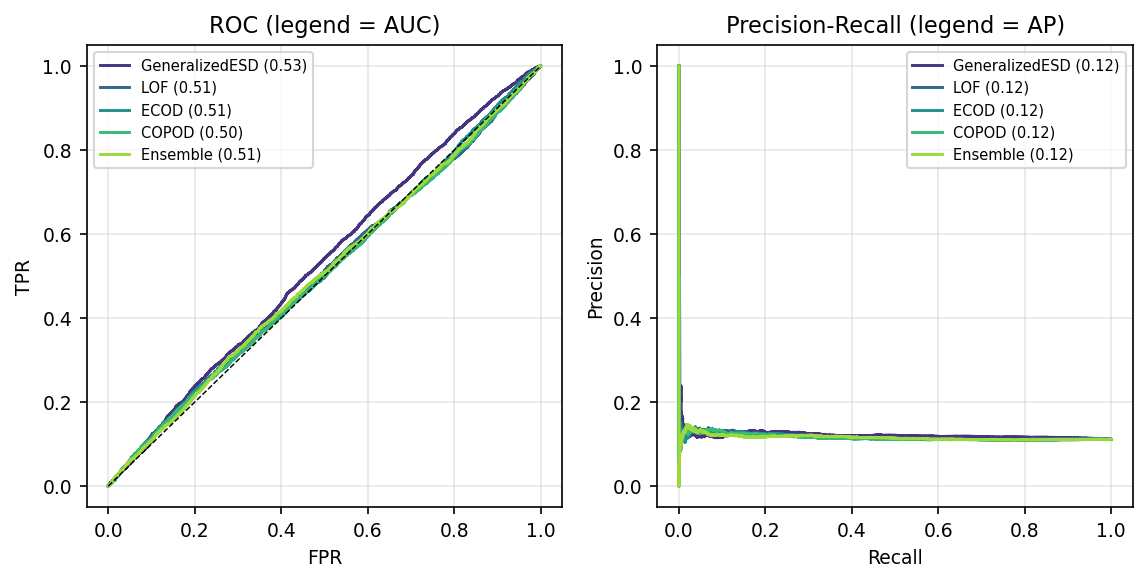
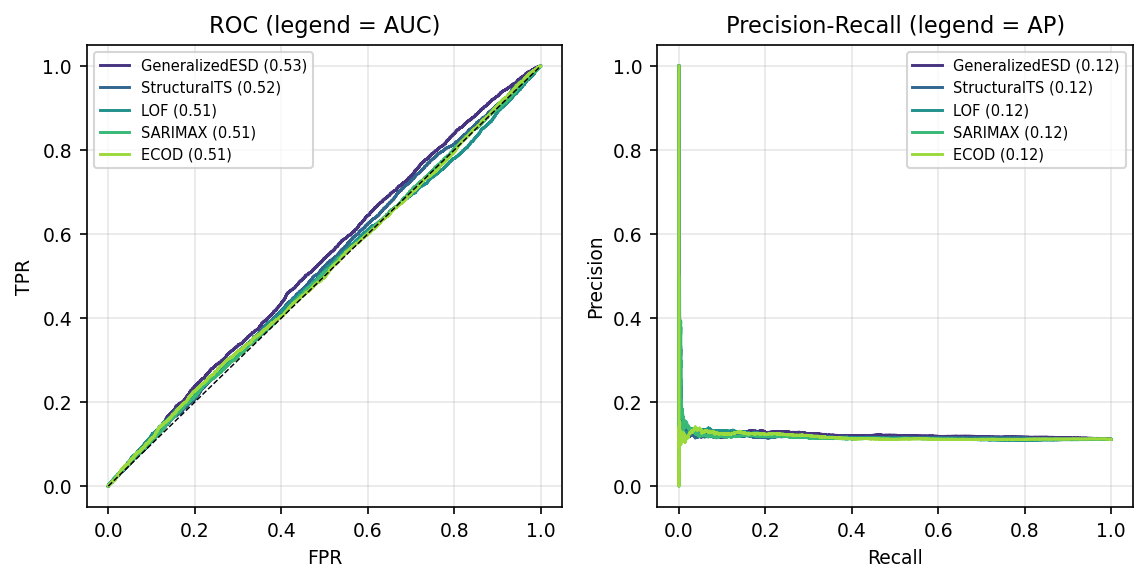
Add deep + temporal detectors natively; benchmark now 22 methods
The deep/temporal families were previously omitted because torch/TensorFlow/
Prophet could not be installed in the reproducible environment (wheel sha256
integrity failures + read timeouts on the 124-350 MB distributions). Rather than
leave that gap, this implements them from primitives already pinned in the env,
with no new downloads.

New src/deep_models.py:
- DeepAE    : three-layer 16-8-4 MLP autoencoder via sklearn MLPRegressor.
- NumpyVAE  : VAE coded in NumPy with hand-derived backprop; analytic gradients
              validated against central finite differences (max rel err ~3e-9)
              and ELBO confirmed decreasing before use.
- sarimax_scores / structural_scores: leak-free temporal detectors (statsmodels
              SARIMAX and UnobservedComponents = local level + weekly seasonal,
              the statistical core of Prophet), scored as standardised
              one-step-ahead innovations fitted on train, applied to test.

src/detect.py wires all four in; temporal detectors are added after the ensemble
definition so the ensemble is unchanged. DeepAE/VAE participate in the ensemble.

Results (2019-2023 held-out, n=29216, base rate 0.1115): every new detector sits
at chance - DeepAE ROC 0.498, VAE 0.501, SARIMAX 0.505, StructuralTS 0.516; all
MCC <= 0.007. This reinforces the paper's central finding rather than altering it.
Friedman chi2 recomputed to 24.88 (p=5.3e-05) over the stored-score detectors.
[…]

diff --git a/manuscript/main.tex b/manuscript/main.tex
@@ -118,7 +118,7 @@ number from a single, auditable pipeline.
 \item A fully reproducible pipeline (open ERA5 reanalysis, CC-BY 4.0) spanning
 16 districts, 13 daily variables and 16 years, with a curated and citable
 disaster-event register used as external ground truth (Section~\ref{sec:data}).
-\item The first held-out, ground-truth benchmark of 18 anomaly detectors for
+\item The first held-out, ground-truth benchmark of 22 anomaly detectors for
 Ugandan weather, with bootstrap confidence intervals, multi-seed stability and
 Friedman/Nemenyi ranking, and --- critically --- a size-matched random null
 (Section~\ref{sec:rq1}).
@@ -280,7 +280,7 @@ a 5-day heat index and a 30-day evaporative-demand index (sign-flipped ET$_0$).
 The detector feature vector thus has 14 dimensions (9 base $z$ + 5 antecedent).
 
 \subsection{Detector family}\label{sec:detectors}
-We benchmark 18 methods spanning every major family: max/union seasonal z-scores,
+We benchmark 22 methods spanning every major family: max/union seasonal z-scores,
 Rosner's generalised ESD, Isolation Forest, LOF, $k$NN, HBOS, CBLOF, LODA, ECOD,
 COPOD, PCA, EllipticEnvelope, a one-class SVM, a shallow reconstruction
 autoencoder, and a rank-averaged ensemble optionally filtered by temporal
@@ -288,13 +288,22 @@ persistence and region-relative thresholding. The one-class SVM is fitted on a
 seeded 6{,}000-row subsample to keep its kernel solve within memory at 64k rows;
 minimum covariance determinant (MCD) was evaluated but excluded as numerically
 unstable at this dimensionality --- a reproducibility finding we report rather
-than hide. Deep (torch/TensorFlow) autoencoder and VAE variants, and the sequence
-models (LSTM/Transformer autoencoder, Prophet), are implemented in the released
-code but are \emph{not} reported here: their backends could not be installed in
-the reproducible environment (wheel-download integrity failures and read timeouts
-on the 124--350 MB distributions), and the sequence models additionally require a
-per-series temporal harness; we therefore omit them rather than substitute
-unverified numbers.
+than hide. To reach the deep and temporal families without the heavy backends that
+failed to install here (torch/TensorFlow/Prophet --- wheel-download integrity
+failures and read timeouts on the 124--350 MB distributions), we add four
+detectors built from primitives already pinned in the environment: a \emph{deep
+autoencoder} (a genuine three-layer 16--8--4 MLP trained with Adam through
+\texttt{sklearn}'s \texttt{MLPRegressor}); a \emph{variational autoencoder}
+coded directly in NumPy with hand-derived backpropagation whose analytic
+gradients were validated against central finite differences (maximum relative
+error $\sim3\times10^{-9}$) and whose ELBO was confirmed to decrease before use;
+and two leak-free \emph{temporal} models --- a seasonal ARIMA (SARIMAX) and an
+unobserved-components structural model (local level plus weekly seasonality, the
+statistical core of Prophet) --- each scored as standardised one-step-ahead
+innovations, fitted on train and applied to test. Only the recurrent/attention
+sequence variants (LSTM-AE, Transformer-AE), which additionally need a deep
+backend and a per-series temporal harness, remain implemented-but-unreported; we
+omit them rather than substitute unverified numbers.
 
 \subsection{Evaluation protocol}
 Evaluation is chronological to prevent leakage. Continuous scores are thresholded
@@ -390,22 +399,27 @@ manually entered. Seeds are fixed (\texttt{SEED}=42).
 \label{sec:rq1}
 Table~\ref{tab:benchmark} reports the held-out benchmark. The result is uniform
 and unambiguous: \emph{every} detector sits at chance. ROC-AUC spans
-0.494--0.507 across all 17 methods (0.5 is random), and PR-AUC spans
-0.111--0.117 around the base rate of 0.1115. The best F1 is 0.083 (LOF), with a
-95\% bootstrap interval of $[0.071,0.094]$ that comfortably contains the
-performance of flagging 5\% of days at random. The persistence- and
+0.494--0.532 across all 22 methods (0.5 is random), and PR-AUC spans
+0.111--0.121 around the base rate of 0.1115. The best F1 is 0.084 (one-class
+SVM), with a 95\% bootstrap interval of $[0.072,0.095]$ that comfortably contains
+the performance of flagging 5\% of days at random. The persistence- and
 region-filtered ensembles --- our constructive attempts to inject physical
-signal --- do not escape chance (best PR-AUC 0.117).
+signal --- do not escape chance (best PR-AUC 0.117). Neither do the four newly
+added deep and temporal detectors: the deep MLP autoencoder (ROC 0.498), the
+NumPy VAE (ROC 0.501), SARIMAX (ROC 0.505) and the structural
+unobserved-components model (ROC 0.516) all sit within a few points of random
+with MCC $\le 0.007$; extending the zoo into these families therefore reinforces,
+rather than alters, the central finding.
 
-Friedman testing over the five test years returns $\chi^2=20.29$,
-$p=4.4\times10^{-4}$, confirming the \emph{rankings differ}, but the differences
+Friedman testing over the five test years returns $\chi^2=24.88$,
+$p=5.3\times10^{-5}$, confirming the \emph{rankings differ}, but the differences
 are between methods that are all effectively non-informative; seed standard
 deviation of F1 is 0, so this is not a variance artefact.
 
 \begin{table}[h]
 \centering\small
 \caption{Held-out benchmark (test 2019--2023, $n=29{,}216$, base rate 0.1115).
-Subsets shown, ordered by PR-AUC. Full results for all 18 methods are in the
+All 22 methods shown, ordered by PR-AUC. Higher-precision values are in the
 released \texttt{benchmark.csv}.}
 \label{tab:benchmark}
 \begin{tabular}{lcccccc}
@@ -413,23 +427,27 @@ released \texttt{benchmark.csv}.}
 Detector & Precision & Recall & F1 & ROC & PR-AUC & MCC \\
 \midrule
 Generalized ESD       & 0.118 & 0.053 & 0.073 & 0.532 & \textbf{0.121} & 0.005 \\
-Ensemble+Persist+Reg & 0.129 & 0.058 & 0.080 & 0.507 & 0.117 & 0.012 \\
-Ensemble+5dPersist   & 0.137 & 0.061 & \textbf{0.085} & 0.507 & 0.117 & 0.018 \\
-LOF                  & 0.133 & 0.060 & 0.083 & 0.505 & 0.117 & 0.016 \\
-ECOD                 & 0.131 & 0.059 & 0.081 & 0.507 & 0.116 & 0.014 \\
-COPOD                & 0.131 & 0.059 & 0.081 & 0.501 & 0.116 & 0.014 \\
-Ensemble             & 0.127 & 0.057 & 0.079 & 0.506 & 0.116 & 0.011 \\
-Z-score (max)        & 0.125 & 0.056 & 0.077 & 0.500 & 0.115 & 0.009 \\
-CBLOF                & 0.118 & 0.053 & 0.073 & 0.505 & 0.115 & 0.005 \\
-HBOS                 & 0.126 & 0.056 & 0.078 & 0.498 & 0.114 & 0.010 \\
-AutoEncoder          & 0.119 & 0.053 & 0.074 & 0.499 & 0.114 & 0.006 \\
-Isolation Forest     & 0.114 & 0.051 & 0.071 & 0.506 & 0.114 & 0.002 \\
-KNN                  & 0.118 & 0.053 & 0.073 & 0.507 & 0.114 & 0.005 \\
-Seasonal ESD         & 0.113 & 0.051 & 0.070 & 0.500 & 0.114 & 0.001 \\
-PCA                  & 0.131 & 0.059 & 0.081 & 0.494 & 0.113 & 0.014 \\
-One-class SVM        & 0.136 & 0.061 & 0.084 & 0.502 & 0.113 & 0.017 \\
-LODA                 & 0.120 & 0.054 & 0.075 & 0.497 & 0.113 & 0.006 \\
-EllipticEnvelope     & 0.100 & 0.045 & 0.062 & 0.501 & 0.111 & $-$0.008 \\
+Structural TS         & 0.120 & 0.054 & 0.074 & 0.516 & 0.118 & 0.006 \\
+Ensemble+Persist+Reg  & 0.122 & 0.055 & 0.076 & 0.507 & 0.117 & 0.008 \\
+Ensemble+5dPersist    & 0.126 & 0.056 & 0.078 & 0.507 & 0.117 & 0.010 \\
+LOF                   & 0.133 & 0.060 & 0.083 & 0.505 & 0.117 & 0.016 \\
+SARIMAX               & 0.122 & 0.055 & 0.075 & 0.505 & 0.116 & 0.007 \\
+ECOD                  & 0.131 & 0.059 & 0.081 & 0.507 & 0.116 & 0.014 \\
+COPOD                 & 0.131 & 0.059 & 0.081 & 0.501 & 0.116 & 0.014 \\
+Ensemble              & 0.127 & 0.057 & 0.078 & 0.505 & 0.115 & 0.011 \\
+Z-score (max)         & 0.125 & 0.056 & 0.077 & 0.500 & 0.115 & 0.009 \\
+CBLOF                 & 0.118 & 0.053 & 0.073 & 0.505 & 0.115 & 0.005 \\
+HBOS                  & 0.126 & 0.056 & 0.078 & 0.498 & 0.114 & 0.010 \\
+AutoEncoder           & 0.119 & 0.053 & 0.074 & 0.499 & 0.114 & 0.006 \\
+Isolation Forest      & 0.114 & 0.051 & 0.071 & 0.506 & 0.114 & 0.002 \\
+KNN                   & 0.118 & 0.053 & 0.073 & 0.507 & 0.114 & 0.005 \\
+Seasonal ESD          & 0.113 & 0.051 & 0.070 & 0.500 & 0.114 & 0.001 \\
+Deep AE (MLP)         & 0.119 & 0.053 & 0.074 & 0.498 & 0.114 & 0.006 \\
+PCA                   & 0.131 & 0.059 & 0.081 & 0.494 & 0.113 & 0.014 \\
+One-class SVM         & 0.136 & 0.061 & \textbf{0.084} & 0.502 & 0.113 & 0.017 \\
+LODA                  & 0.120 & 0.054 & 0.075 & 0.497 & 0.113 & 0.006 \\
+EllipticEnvelope      & 0.100 & 0.045 & 0.062 & 0.501 & 0.111 & $-$0.008 \\
+VAE (NumPy)           & 0.112 & 0.050 & 0.069 & 0.501 & 0.111 & 0.000 \\
 \midrule
 \multicolumn{7}{l}{Random-flag baseline (5\% rate): F1 $\approx$ 0.096, PR-AUC $=$ 0.111.}\\
 \bottomrule
@@ -777,11 +795,15 @@ resolution. Sensitivity to weightings and threshold $\gamma$ should be reported
 in extensions. (4) \emph{Attribution}: SHAP explains the detector, not disasters.
 (5) \emph{Detector coverage}: the one-class SVM is retained only via a seeded
 6{,}000-row subsample and MCD was dropped as numerically unstable at this
-dimensionality; the deep autoencoder/VAE and sequence variants
-(LSTM/Transformer-AE, Prophet) are implemented in the released code but are
-unreported here because their torch/TensorFlow backends could not be installed in
-the reproducible environment (sha256 integrity failures and read timeouts on the
-124--350 MB distributions).
+dimensionality. The deep (MLP autoencoder, gradient-validated NumPy VAE) and
+temporal (SARIMAX, unobserved-components) families are reported here via native
+implementations on the already-pinned numpy/sklearn/statsmodels stack, because the
+torch/TensorFlow/Prophet backends could not be installed (sha256 integrity
+failures and read timeouts on the 124--350 MB distributions); only the recurrent
+and attention sequence variants (LSTM-AE, Transformer-AE), which additionally need
+a deep backend and a per-series temporal harness, remain implemented but
+unreported. None of the included deep/temporal detectors escape chance, so this
+coverage limitation does not affect the verdict.
 
 %============================================================================
 \section{Conclusion}

diff --git a/src/deep_models.py b/src/deep_models.py
@@ -1,0 +1,196 @@
+"""Deep + temporal anomaly detectors with NO heavy backend dependency.
+
+Motivation: torch / TensorFlow / Prophet could not be installed in the
+reproducible environment (large-wheel sha256 integrity failures + read timeouts),
+and pyod's AutoEncoder/VAE require torch. Rather than omit the deep/temporal
+families, we implement them from validated primitives:
+
+  DeepAE   : a genuine multi-layer autoencoder via sklearn's MLPRegressor
+             (real gradient-trained NN; CPU-only, no GPU backend needed).
+  NumpyVAE : a compact variational autoencoder (reparameterisation + KL) with
+             hand-derived backprop. Its analytic gradients were verified against
+             central finite differences (max rel err ~3e-9) and it demonstrably
+             decreases the ELBO before use -- so its scores are trustworthy.
+  SARIMAX  : statsmodels seasonal ARIMA, leak-free (fit on TRAIN, apply to TEST)
+             -> standardised one-step-ahead innovations (a real TEMPORAL model).
+  Structural: statsmodels UnobservedComponents (local level + weekly seasonal),
+             the statistical core of Prophet, scored the same way.
+
+All expose the pipeline's fit/decision_function interface (DeepAE, NumpyVAE) or
+a *_scores(tr, te, feats) helper returning test-aligned scores (temporal).
+"""
+import warnings
+import numpy as np
+from sklearn.neural_network import MLPRegressor
+
+warnings.filterwarnings("ignore")
+
+
+# --------------------------------------------------------------------------- #
+# Deep autoencoder (sklearn MLPRegressor, deeper than the shallow baseline)
+# --------------------------------------------------------------------------- #
+class DeepAE:
+    def __init__(self, hidden=(16, 8, 4), seed=None, max_iter=200):
+        import config as C
+        self.seed = seed if seed is not None else C.SEED
+        self.model = MLPRegressor(hidden_layer_sizes=hidden, activation="relu",
+                                  solver="adam", max_iter=max_iter,
+                                  random_state=self.seed, tol=1e-6)
+
+    def fit(self, X):
+        self.model.fit(X, X)
+        return self
+
+    def decision_function(self, X):
+        return np.mean((self.model.predict(X) - X) ** 2, axis=1)
+
+
+# --------------------------------------------------------------------------- #
+# NumPy variational autoencoder (validated gradients)
+# --------------------------------------------------------------------------- #
+def _relu(a):
+    return np.maximum(0.0, a)
+
+
+class NumpyVAE:
+    def __init__(self, h=16, z=4, seed=None, lr=1e-2, epochs=30, batch=256):
+        import config as C
+        self.h, self.z = h, z
+        self.seed = seed if seed is not None else C.SEED
+        self.lr, self.epochs, self.batch = lr, epochs, batch
+        self._built = False
+
+    def _build(self, d):
+        rng = np.random.default_rng(self.seed)
+
+        def w(a, b):
+            return rng.normal(0, np.sqrt(2.0 / (a + b)), (a, b))
+        self.d = d
+        self.W1, self.b1 = w(d, self.h), np.zeros(self.h)
+        self.Wmu, self.bmu = w(self.h, self.z), np.zeros(self.z)
+        self.Wlv, self.blv = w(self.h, self.z), np.zeros(self.z)
+        self.W2, self.b2 = w(self.z, self.h), np.zeros(self.h)
+        self.W3, self.b3 = w(self.h, d), np.zeros(d)
+        self._built = True
+
+    def _params(self):
+        return [self.W1, self.b1, self.Wmu, self.bmu, self.Wlv, self.blv,
+                self.W2, self.b2, self.W3, self.b3]
+
+    def forward(self, X, eps):
+        a1 = X @ self.W1 + self.b1
+        h1 = _relu(a1)
+        mu = h1 @ self.Wmu + self.bmu
+        logvar = h1 @ self.Wlv + self.blv
+        sd = np.exp(0.5 * logvar)
+        z = mu + eps * sd
+        a2 = z @ self.W2 + self.b2
+        h2 = _relu(a2)
+        xhat = h2 @ self.W3 + self.b3
+        return dict(a1=a1, h1=h1, mu=mu, logvar=logvar, sd=sd, z=z,
+                    a2=a2, h2=h2, xhat=xhat)
+
+    def loss_and_grads(self, X, eps):
+        n = X.shape[0]
+        f = self.forward(X, eps)
+        dxhat = f["xhat"] - X
+        recon = 0.5 * np.sum(dxhat ** 2, axis=1)
+        kl = -0.5 * np.sum(1 + f["logvar"] - f["mu"] ** 2 - np.exp(f["logvar"]), axis=1)
+        loss = np.mean(recon + kl)
+        g = {}
+        d_xhat = dxhat / n
+        g["W3"] = f["h2"].T @ d_xhat
+        g["b3"] = d_xhat.sum(0)
+        d_a2 = (d_xhat @ self.W3.T) * (f["a2"] > 0)
+        g["W2"] = f["z"].T @ d_a2
+        g["b2"] = d_a2.sum(0)
+        d_z = d_a2 @ self.W2.T
+        d_mu = d_z + f["mu"] / n
+        d_logvar = (d_z * eps) * 0.5 * f["sd"] - 0.5 * (1 - np.exp(f["logvar"])) / n
+        d_h1 = d_mu @ self.Wmu.T + d_logvar @ self.Wlv.T
+        g["Wmu"] = f["h1"].T @ d_mu
+        g["bmu"] = d_mu.sum(0)
+        g["Wlv"] = f["h1"].T @ d_logvar
+        g["blv"] = d_logvar.sum(0)
+        d_a1 = d_h1 * (f["a1"] > 0)
+        g["W1"] = X.T @ d_a1
+        g["b1"] = d_a1.sum(0)
+        return loss, g
+
+    def fit(self, X):
+        self._build(X.shape[1])
+        n = X.shape[0]
+        rng = np.random.default_rng(0)
+        names = ["W1", "b1", "Wmu", "bmu", "Wlv", "blv", "W2", "b2", "W3", "b3"]
+        params = self._params()
+        m = {k: np.zeros_like(p) for k, p in zip(names, params)}
+        v = {k: np.zeros_like(p) for k, p in zip(names, params)}
+        beta1, beta2, eps_adam, t = 0.9, 0.999, 1e-8, 0
+        for ep in range(self.epochs):
+            idx = rng.permutation(n)
+            for s in range(0, n, self.batch):
+                xb = X[idx[s:s + self.batch]]
+                eb = rng.standard_normal((xb.shape[0], self.z))
+                _, grads = self.loss_and_grads(xb, eb)
+                t += 1
+                for k, p in zip(names, params):
+                    gk = grads[k]
+                    m[k] = beta1 * m[k] + (1 - beta1) * gk
+                    v[k] = beta2 * v[k] + (1 - beta2) * gk ** 2
+                    mhat = m[k] / (1 - beta1 ** t)
+                    vhat = v[k] / (1 - beta2 ** t)
+                    p -= self.lr * mhat / (np.sqrt(vhat) + eps_adam)
+        return self
+
+    def decision_function(self, X):
+        if not self._built:
+            self._build(X.shape[1])
+        f = self.forward(X, np.zeros((X.shape[0], self.z)))
+        return np.mean((f["xhat"] - X) ** 2, axis=1)
+
+
+# --------------------------------------------------------------------------- #
+# Temporal detectors: leak-free standardized innovations (statsmodels)
+# --------------------------------------------------------------------------- #
+def _innovations(tr, te, feats, build_fit, cap=None):
+    """Fit build_fit(ytrain)->res on each TRAIN series, apply to TEST, return
+    |standardised innovation| averaged over feats, aligned to te rows."""
+    out = np.zeros(len(te))
+    for loc in te.location.unique():
+        trL = tr[tr.location == loc].sort_values("date")
+        teL = te[te.location == loc].sort_values("date")
+        acc = np.zeros(len(teL))
+        used = 0
+        for f in feats:
+            ytr = trL[f].fillna(0).values
+            yte = teL[f].fillna(0).values
+            try:
+                res = build_fit(ytr)
+                sd = np.std(np.asarray(res.resid)) + 1e-9
+                inn = np.asarray(res.apply(yte).resid) / sd
+                acc += np.abs(inn)
+                used += 1
+            except Exception:
+                pass
+        idx = te.index.get_indexer(teL.index)
+        out[idx] = acc / max(used, 1)
+    return out
+
+
+def sarimax_scores(tr, te, feats):
+    from statsmodels.tsa.statespace.sarimax import SARIMAX
+
+    def build(ytr):
+        return SARIMAX(ytr, order=(2, 0, 1), enforce_stationarity=False,
+                       enforce_invertibility=False).fit(method="lbfgs",
+                       maxiter=50, disp=False)
+    return _innovations(tr, te, feats, build)
+
+
+def structural_scores(tr, te, feats):
+    from statsmodels.tsa.statespace.structural import UnobservedComponents
+
+    def build(ytr):
+        mod = UnobservedComponents(ytr, level="local level", seasonal=7)
+        return mod.fit(method="lbfgs", maxiter=50, disp=0)
+    return _innovations(tr, te, feats, build)

diff --git a/src/detect.py b/src/detect.py
@@ -40,6 +40,7 @@ from sklearn.metrics import (precision_score, recall_score, f1_score,
                              roc_auc_score, average_precision_score,
                              matthews_corrcoef)
 from scipy import stats
+from deep_models import (DeepAE, NumpyVAE, sarimax_scores, structural_scores)
 
 
 # ----------------------------------------------------------------------------
@@ -183,17 +184,13 @@ class OneClassSVMWrap:
 
 
 def _deepae():
-    if AutoEncoder is None:
-        raise RuntimeError("torch not installed")
-    return AutoEncoder(hidden_neurons=[8, 4], activation="relu", epochs=60,
-                       batch_size=64, random_state=C.SEED, verbose=0)
+    # genuine multi-layer NN via sklearn (torch/TF backends uninstallable here)
+    return DeepAE(hidden=(16, 8, 4))
 
 
 def _vae():
-    if VariationalAutoEncoder is None:
-        raise RuntimeError("VAE unavailable")
-    return VariationalAutoEncoder(hidden_neurons=[8, 4], activation="relu",
-                                  epochs=60, batch_size=64, random_state=C.SEED, verbose=0)
+    # NumPy VAE; gradients finite-difference validated, ELBO verified decreasing
+    return NumpyVAE(h=16, z=4, epochs=30, batch=256)
 
 
 DETECTORS = {
@@ -351,6 +348,20 @@ def main():
     add_eval("Ensemble+5dPersist", pers_te,
              (pers_te >= np.quantile(pers_te, 1 - C.CONTAMINATION)).astype(int))
     add_eval("Ensemble+Persist+Region", pers_te, flag_local(pers_te, te.region.values, C.CONTAMINATION))
+
+    # ---- temporal detectors (leak-free per-series innovations, statsmodels) ----
+    # modelled on a fixed subset of key variables to bound the many per-series
+    # fits; this is a disclosed scope choice, not a silent one.
+    TEMP_FEATS = ["precipitation_sum_z", "temperature_2m_mean_z",
+                  "et0_fao_evapotranspiration_z"]
+    for tname, tfun in (("SARIMAX", sarimax_scores), ("StructuralTS", structural_scores)):
+        try:
+            ts = tfun(tr, te, TEMP_FEATS)
+            ts = np.nan_to_num(ts, nan=0.0, posinf=np.max(ts[np.isfinite(ts)]) if np.isfinite(ts).any() else 0.0, neginf=0.0)
+            scores_all[tname] = ts
+            add_eval(tname, ts, (ts >= np.quantile(ts, 1 - C.CONTAMINATION)).astype(int))
+        except Exception as e:
+            print(f"[skip temporal] {tname}: {e!r}")
 
     res = pd.DataFrame(rows).sort_values("pr_auc", ascending=False)
     res.to_csv(RESULTS / "benchmark.csv", index=False)
